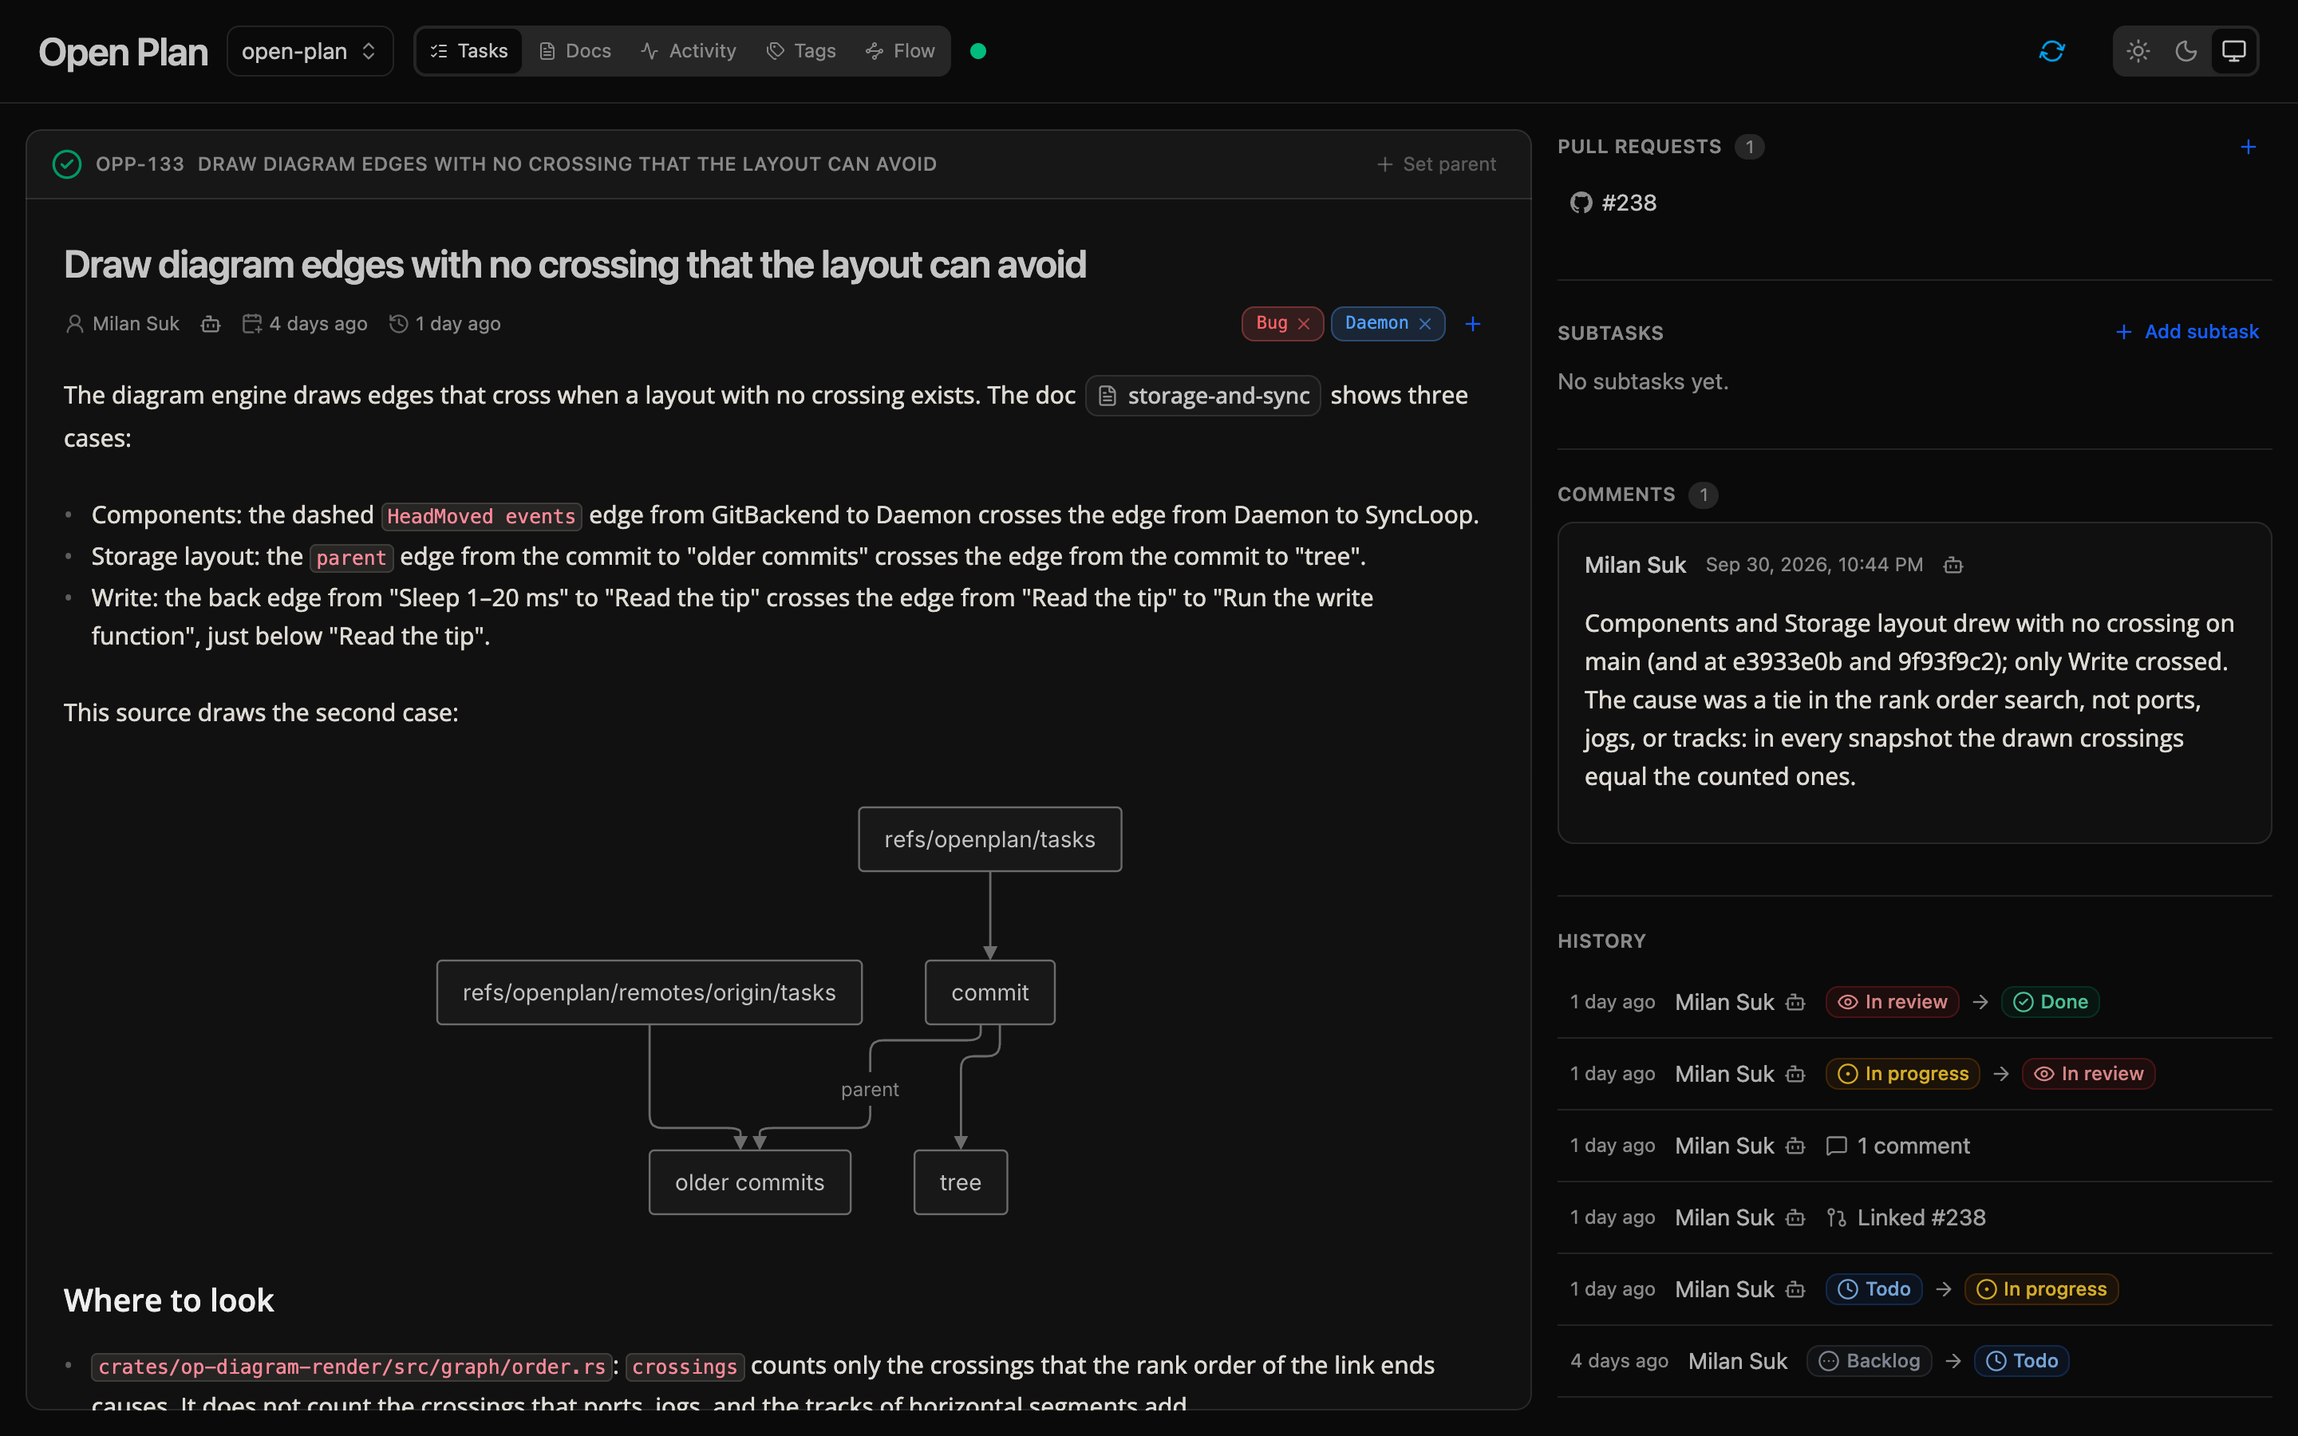
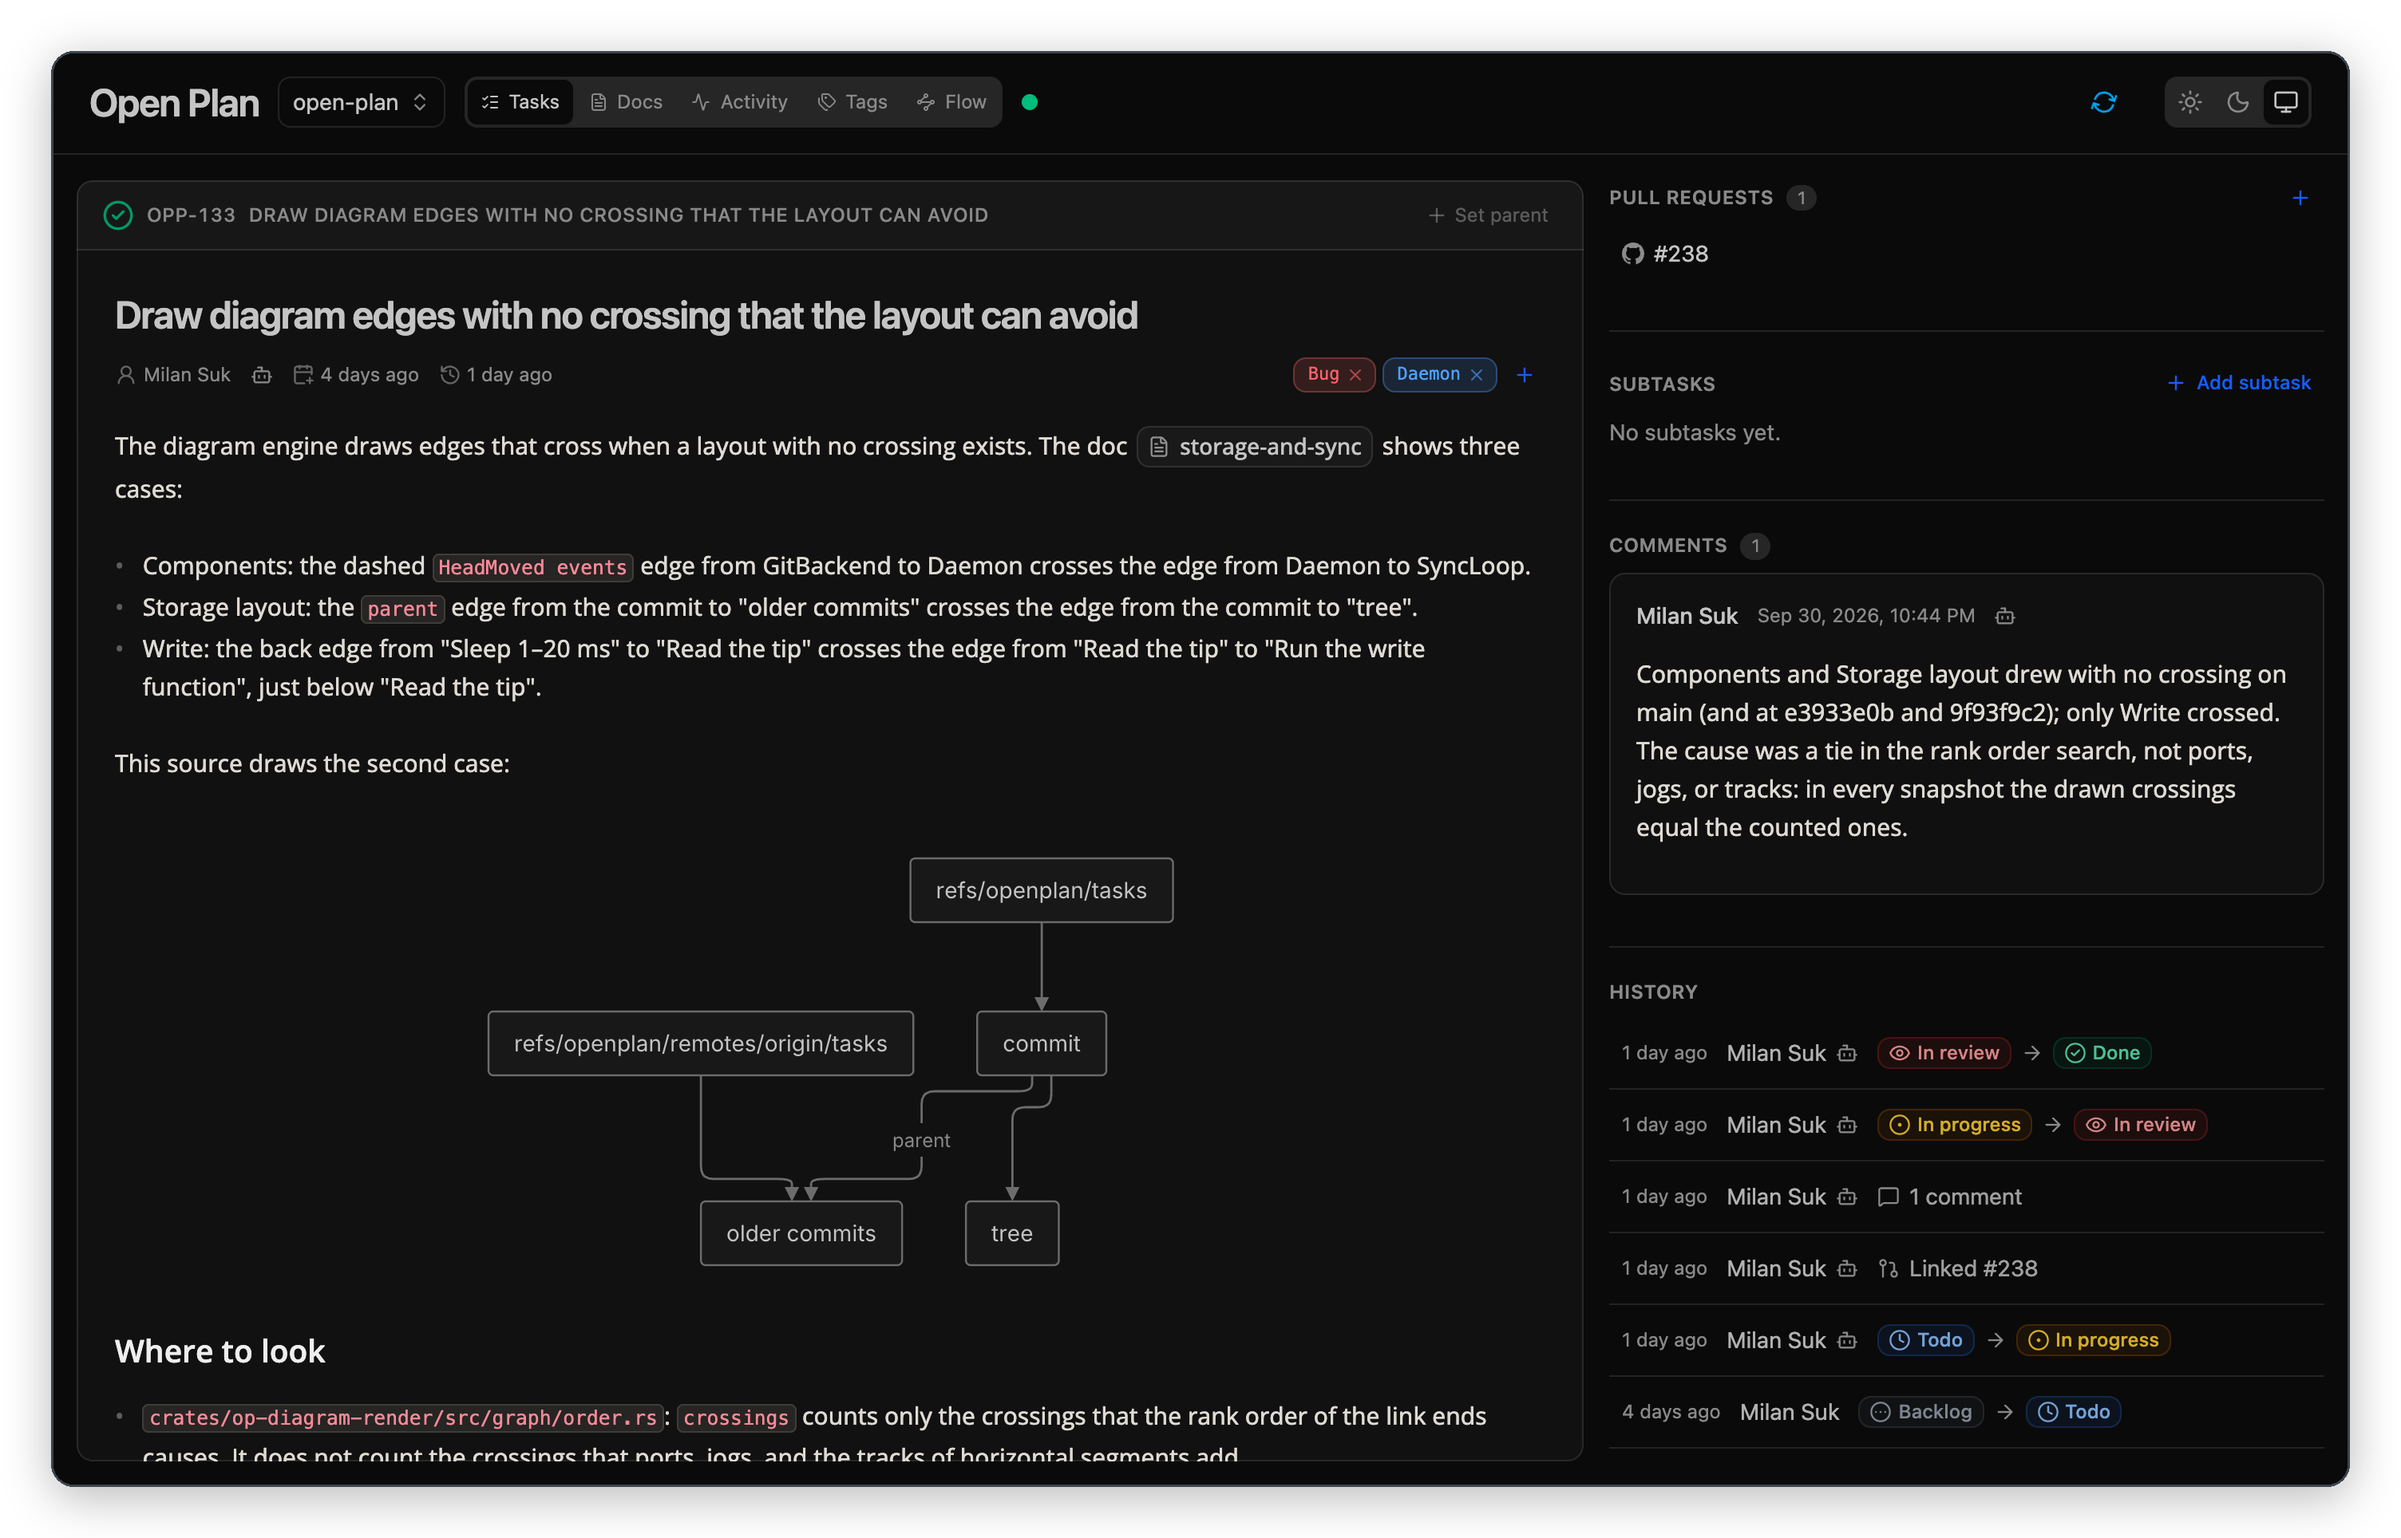
docs: center a framed screenshot and move the development steps to DEVELOPMENT.md

diff --git a/README.md b/README.md
@@ -1,13 +1,36 @@
-# openplan
+<p align="center">
+  <img src="assets/icon.svg" width="88" alt="">
+</p>
 
-<picture>
-  <source media="(prefers-color-scheme: dark)" srcset="assets/screenshot-dark.png">
-  <img alt="The task page of the openplan web UI" src="assets/screenshot-light.png">
-</picture>
+<h1 align="center">openplan</h1>
 
-Local-first task manager for humans and AI agents. Each task is a markdown file. A team keeps
-its tasks in the git repository of the code, in the ref `refs/openplan/tasks`, apart from the
-code branches. One person can keep them in a local directory instead.
+<p align="center">
+  A local-first task manager for humans and AI agents.<br>
+  Tasks are markdown files in your git repository, with a realtime web UI.
+</p>
+
+<p align="center">
+  <a href="https://github.com/sukovanej/openplan/releases/latest"><img alt="Latest release" src="https://img.shields.io/github/v/release/sukovanej/openplan?sort=semver"></a>
+  <a href="https://github.com/sukovanej/openplan/actions/workflows/ci.yml"><img alt="CI" src="https://img.shields.io/github/actions/workflow/status/sukovanej/openplan/ci.yml?branch=main&label=CI"></a>
+  <a href="LICENSE"><img alt="License: MIT" src="https://img.shields.io/github/license/sukovanej/openplan"></a>
+</p>
+
+<p align="center">
+  <a href="#install">Install</a> ·
+  <a href="#quick-start">Quick start</a> ·
+  <a href="#usage">Usage</a> ·
+  <a href="DEVELOPMENT.md">Development</a>
+</p>
+
+<p align="center">
+  <picture>
+    <source media="(prefers-color-scheme: dark)" srcset="assets/screenshot-dark.png">
+    <img alt="The task page of the openplan web UI" src="assets/screenshot-light.png" width="88%">
+  </picture>
+</p>
+
+A team keeps its tasks in the git repository of the code, in the ref `refs/openplan/tasks`, apart
+from the code branches. One person can keep them in a local directory instead.
 
 ## Features
 
@@ -90,109 +113,9 @@ into the tasks ref.
 - run: openplan lint --skills   # the agent skills; the tasks change apart from the code
 ```
 
-## Development
+## Contributing
 
-### Build
-
-```sh
-cargo build
-cargo test
-cargo fmt --check
-cargo clippy -- -D warnings
-```
-
-The web UI is in `web/` (a pnpm workspace). Its build output (`web/packages/app/dist/`) is
-gitignored. Build it before `cargo build` to embed the SPA. Without it, the daemon compiles and
-runs, but serves no web UI.
-
-```sh
-cd web && pnpm install && pnpm -r build   # → web/packages/app/dist
-cargo build                               # embeds the SPA
-```
-
-Web workspace checks: `pnpm -r typecheck`, `pnpm lint`, `pnpm format:check`, `pnpm -r test`.
-Live development: `pnpm --filter @openplan/app dev` (Vite on :5173, proxying the API to
-the daemon on :7373).
-
-### Run
-
-Put the binary of the checkout on PATH and restart the daemon on it:
-
-```sh
-mise run install     # SPA → release binary → PATH → daemon restarted on it
-```
-
-The daemon respawns itself from its own executable, so the binary that starts it keeps serving.
-Install and restart together to keep the daemon and the checkout on the same build.
-
-Without installing, run it from the checkout as `cargo run -p openplan -- <args>`.
-
-### Desktop window
-
-```sh
-mise run gui     # the window on the running daemon, starting one when none runs
-```
-
-It loads `http://127.0.0.1:<port>/`, so it shows the SPA the daemon serves. Run `mise run install`
-after a change to the SPA. The window starts its own daemon when none runs, so it needs no
-`openplan` on `PATH`. It obeys `OPENPLAN_HOME` and `OPENPLAN_PORT` like every other command.
-Releases carry no desktop app for now.
-
-On Windows, install the GUI and run the CLI and daemon in WSL instead. With the daemon already
-listening in WSL, open the Windows app and it connects through WSL's localhost forwarding. It
-waits up to five seconds for `http://127.0.0.1:7373/health`, then tells you if the bridge is not
-available. Set `OPENPLAN_PORT` before launching the app when the WSL daemon uses a fixed port
-other than 7373. Port `0` is not supported because its randomly selected port stays in WSL.
-
-### Icons
-
-`assets/icon.svg` is the only source. Edit it, then rasterize:
-
-```sh
-mise run icons   # → crates/op-gui/icons/ and web/packages/app/public/
-```
-
-### Release
-
-The product version is `version` in `[workspace.package]`, and it follows
-[semver](https://semver.org). Every crate takes it, and `openplan --version` prints it.
-`mise` installs `cargo-dist` and `cargo-edit` from `[tools]` in `mise.toml`.
-
-`CHANGELOG.md` follows [Keep a Changelog](https://keepachangelog.com). Write each section by
-hand. cargo-dist takes the GitHub Release notes from the section for the version, so this file
-is what users read on the release page.
-
-```md
-## [0.0.2] - 2026-09-10
-
-### Added
-- The lines you want users to read.
-```
-
-Then bump on a branch:
-
-```sh
-mise run release 0.0.2       # bump the version, commit
-```
-
-The task stops when `CHANGELOG.md` has no section for the version. Merge that commit into
-`main`, then tag it:
-
-```sh
-git tag v0.0.2 && git push origin v0.0.2
-```
-
-The tag starts `.github/workflows/release.yml`. It builds each target, makes the archives, the
-checksums, and the installer, and publishes a GitHub Release.
-
-[cargo-dist](https://axodotdev.github.io/cargo-dist/) generates that workflow from
-`[workspace.metadata.dist]` in `Cargo.toml`. After a change there, run `dist init --yes` and
-commit the result.
-
-The desktop app ships as a bundle, not as a binary in a tarball, so `crates/op-gui` sets
-`dist = false` and cargo-dist skips it. `.github/workflows/release-app.yml` builds the bundle on
-each platform and uploads it to a release. For now, it runs only when you start it by hand. Nothing
-generates that file. Edit it by hand.
+[DEVELOPMENT.md](DEVELOPMENT.md) tells you how to build, run, and release openplan.
 
 ## License
 

diff --git a/DEVELOPMENT.md b/DEVELOPMENT.md
@@ -1,0 +1,103 @@
+# Development
+
+## Build
+
+```sh
+cargo build
+cargo test
+cargo fmt --check
+cargo clippy -- -D warnings
+```
+
+The web UI is in `web/` (a pnpm workspace). Its build output (`web/packages/app/dist/`) is
+gitignored. Build it before `cargo build` to embed the SPA. Without it, the daemon compiles and
+runs, but serves no web UI.
+
+```sh
+cd web && pnpm install && pnpm -r build   # → web/packages/app/dist
+cargo build                               # embeds the SPA
+```
+
+Web workspace checks: `pnpm -r typecheck`, `pnpm lint`, `pnpm format:check`, `pnpm -r test`.
+Live development: `pnpm --filter @openplan/app dev` (Vite on :5173, proxying the API to
+the daemon on :7373).
+
+## Run
+
+Put the binary of the checkout on PATH and restart the daemon on it:
+
+```sh
+mise run install     # SPA → release binary → PATH → daemon restarted on it
+```
+
+The daemon respawns itself from its own executable, so the binary that starts it keeps serving.
+Install and restart together to keep the daemon and the checkout on the same build.
+
+Without installing, run it from the checkout as `cargo run -p openplan -- <args>`.
+
+## Desktop window
+
+```sh
+mise run gui     # the window on the running daemon, starting one when none runs
+```
+
+It loads `http://127.0.0.1:<port>/`, so it shows the SPA the daemon serves. Run `mise run install`
+after a change to the SPA. The window starts its own daemon when none runs, so it needs no
+`openplan` on `PATH`. It obeys `OPENPLAN_HOME` and `OPENPLAN_PORT` like every other command.
+Releases carry no desktop app for now.
+
+On Windows, install the GUI and run the CLI and daemon in WSL instead. With the daemon already
+listening in WSL, open the Windows app and it connects through WSL's localhost forwarding. It
+waits up to five seconds for `http://127.0.0.1:7373/health`, then tells you if the bridge is not
+available. Set `OPENPLAN_PORT` before launching the app when the WSL daemon uses a fixed port
+other than 7373. Port `0` is not supported because its randomly selected port stays in WSL.
+
+## Icons
+
+`assets/icon.svg` is the only source. Edit it, then rasterize:
+
+```sh
+mise run icons   # → crates/op-gui/icons/ and web/packages/app/public/
+```
+
+## Release
+
+The product version is `version` in `[workspace.package]`, and it follows
+[semver](https://semver.org). Every crate takes it, and `openplan --version` prints it.
+`mise` installs `cargo-dist` and `cargo-edit` from `[tools]` in `mise.toml`.
+
+`CHANGELOG.md` follows [Keep a Changelog](https://keepachangelog.com). Write each section by
+hand. cargo-dist takes the GitHub Release notes from the section for the version, so this file
+is what users read on the release page.
+
+```md
+## [0.0.2] - 2026-09-10
+
+### Added
+- The lines you want users to read.
+```
+
+Then bump on a branch:
+
+```sh
+mise run release 0.0.2       # bump the version, commit
+```
+
+The task stops when `CHANGELOG.md` has no section for the version. Merge that commit into
+`main`, then tag it:
+
+```sh
+git tag v0.0.2 && git push origin v0.0.2
+```
+
+The tag starts `.github/workflows/release.yml`. It builds each target, makes the archives, the
+checksums, and the installer, and publishes a GitHub Release.
+
+[cargo-dist](https://axodotdev.github.io/cargo-dist/) generates that workflow from
+`[workspace.metadata.dist]` in `Cargo.toml`. After a change there, run `dist init --yes` and
+commit the result.
+
+The desktop app ships as a bundle, not as a binary in a tarball, so `crates/op-gui` sets
+`dist = false` and cargo-dist skips it. `.github/workflows/release-app.yml` builds the bundle on
+each platform and uploads it to a release. For now, it runs only when you start it by hand. Nothing
+generates that file. Edit it by hand.

diff --git a/CLAUDE.md b/CLAUDE.md
@@ -33,8 +33,9 @@ rather than writing the prose.
 - A plain comment is allowed only for *why* the code cannot express itself: a
   footgun, an external constraint, or a deliberate placeholder (`TODO(...)`).
   Never restate *what* the code does.
-- The README stays at build/run essentials. A crate's purpose belongs in its
-  `Cargo.toml` `description`, not in prose.
+- The README presents the product to its users: features, install, and usage.
+  Build, run, and release steps go in `DEVELOPMENT.md`. A crate's purpose
+  belongs in its `Cargo.toml` `description`, not in prose.
 - Exempt, because they are product UI rather than documentation: CLI `--help`
   text (clap `///` / `about`) and user-facing error/log messages.
 
